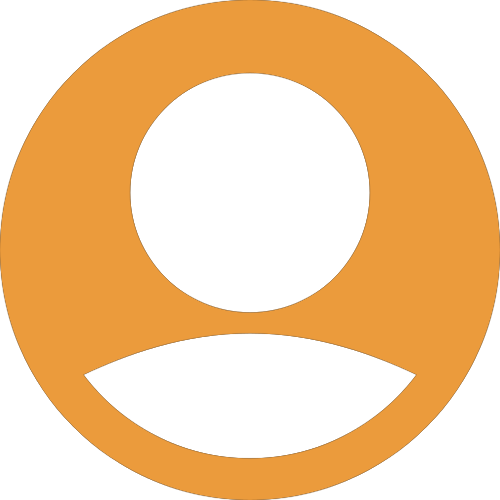
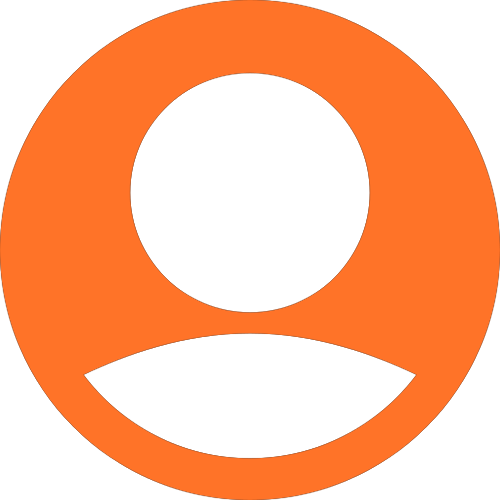
Changement de couleur pour la partie mes infos

diff --git a/Components/MesInformations.js b/Components/MesInformations.js
@@ -76,14 +76,14 @@ const styles = StyleSheet.create({
         borderRadius: 50,
         borderWidth: 3,
         height: 40,
-        borderColor: '#eb9b3c',
+        borderColor: '#ff7328',
         flexDirection: 'row',
         alignItems: 'center'
     },
     text_count_left : {
         flex: 1,
         textAlign: 'center',
-        borderColor: '#eb9b3c',
+        borderColor: '#ff7328',
         borderRightWidth: 1.5,
         height: 40,
         textAlignVertical: 'center',
@@ -92,7 +92,7 @@ const styles = StyleSheet.create({
     text_count_right : {
         flex: 1,
         textAlign: 'center',
-        borderColor: '#eb9b3c',
+        borderColor: '#ff7328',
         borderLeftWidth: 1.5,
         height: 40,
         textAlignVertical: 'center',
@@ -102,11 +102,11 @@ const styles = StyleSheet.create({
         borderRadius: 50,
         borderWidth :2,
         marginBottom: 10,
-        borderColor: '#eb9b3c',
+        borderColor: '#ff7328',
         width: 320,
         height: 50,
         alignSelf: 'center',
-        backgroundColor: '#eb9b3c',
+        backgroundColor: '#ff7328',
         marginTop : 70
     },
     textButon: {

diff --git a/Navigation/StackMesInfos.js b/Navigation/StackMesInfos.js
@@ -18,7 +18,7 @@ class StackMesInfos extends React.Component {
                     options={{
                         headerTitleAlign: 'center',
                         headerStyle: {
-                            backgroundColor: '#eb9b3c'
+                            backgroundColor: '#ff7328'
                         },
                         headerTitleStyle: {
                             color: '#ffffff',

diff --git a/Navigation/BottomNavigation.js b/Navigation/BottomNavigation.js
@@ -23,7 +23,7 @@ class BottomNavigation extends React.Component {
                                 source={require('../Images/my_info.png')}
                                 style={styles.icon}/>
                         },
-                        tabBarColor: '#eb9b3c'
+                        tabBarColor: '#ff7328'
                     }}
                 />
             )
